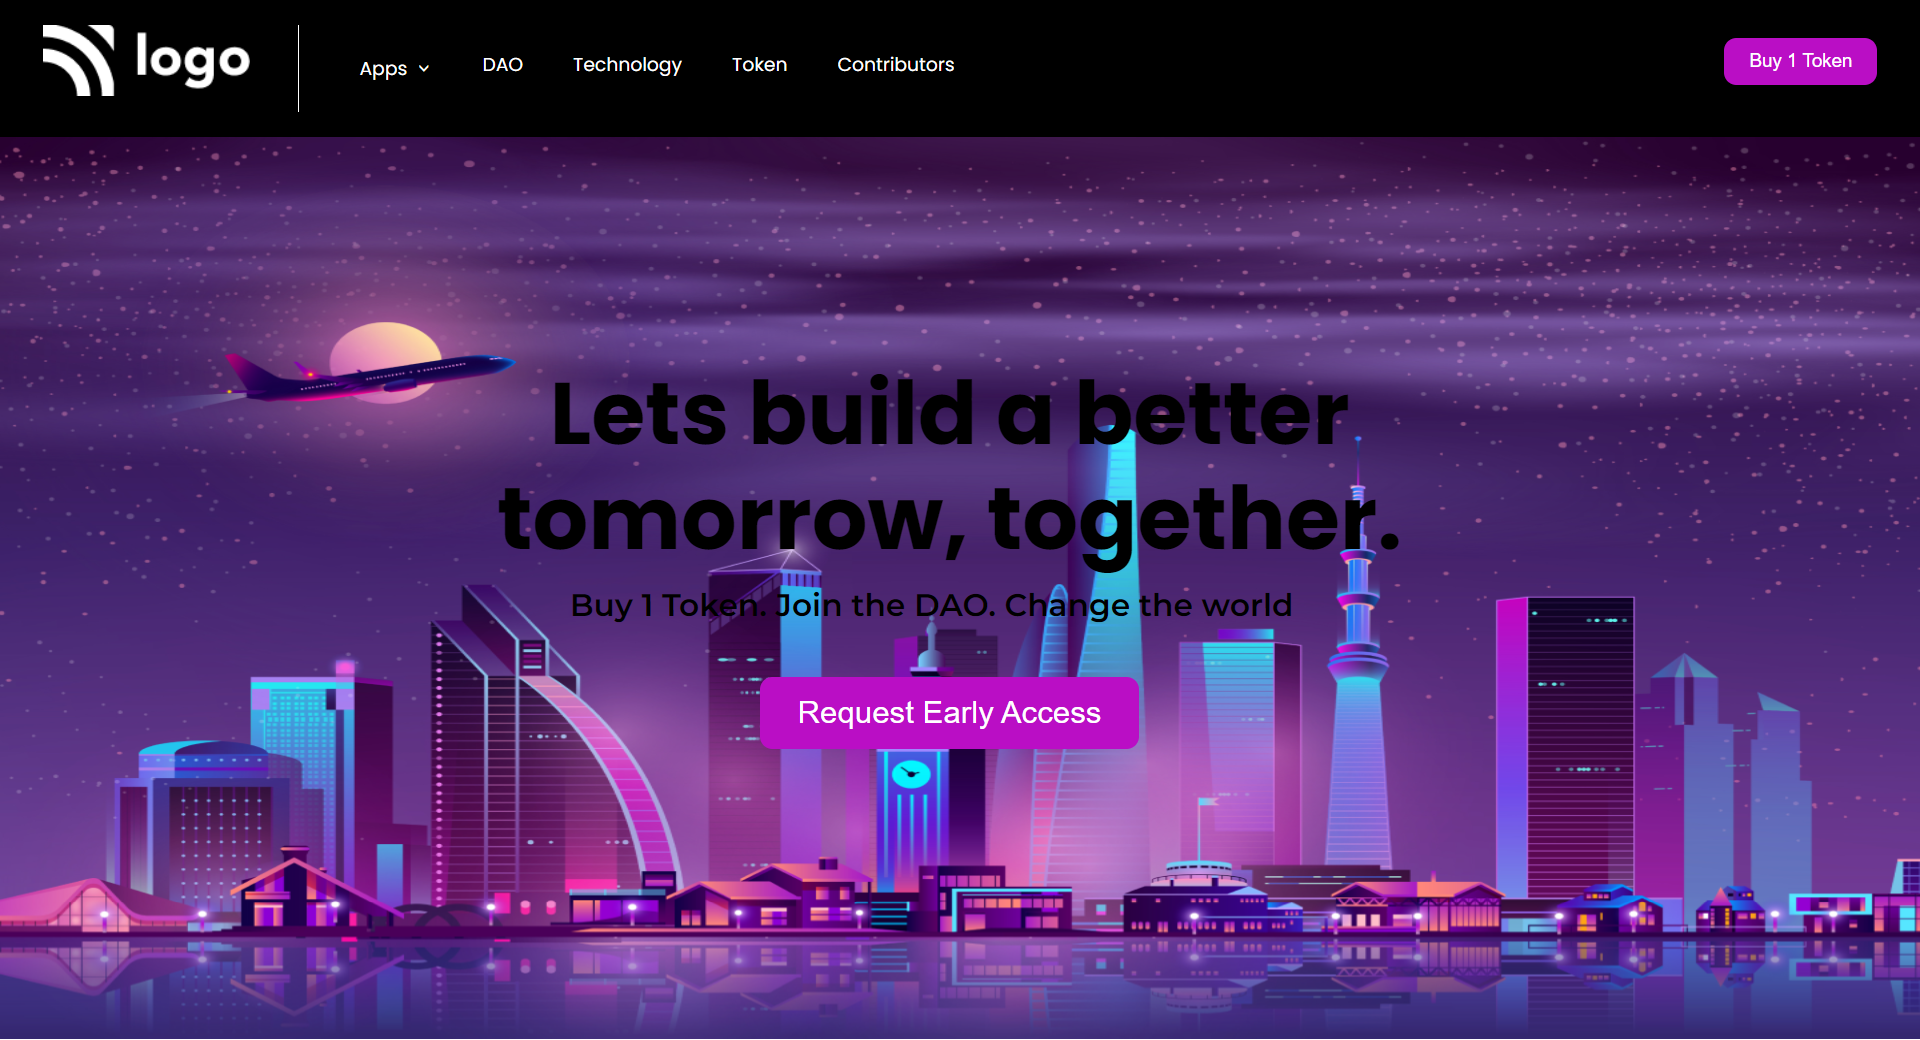
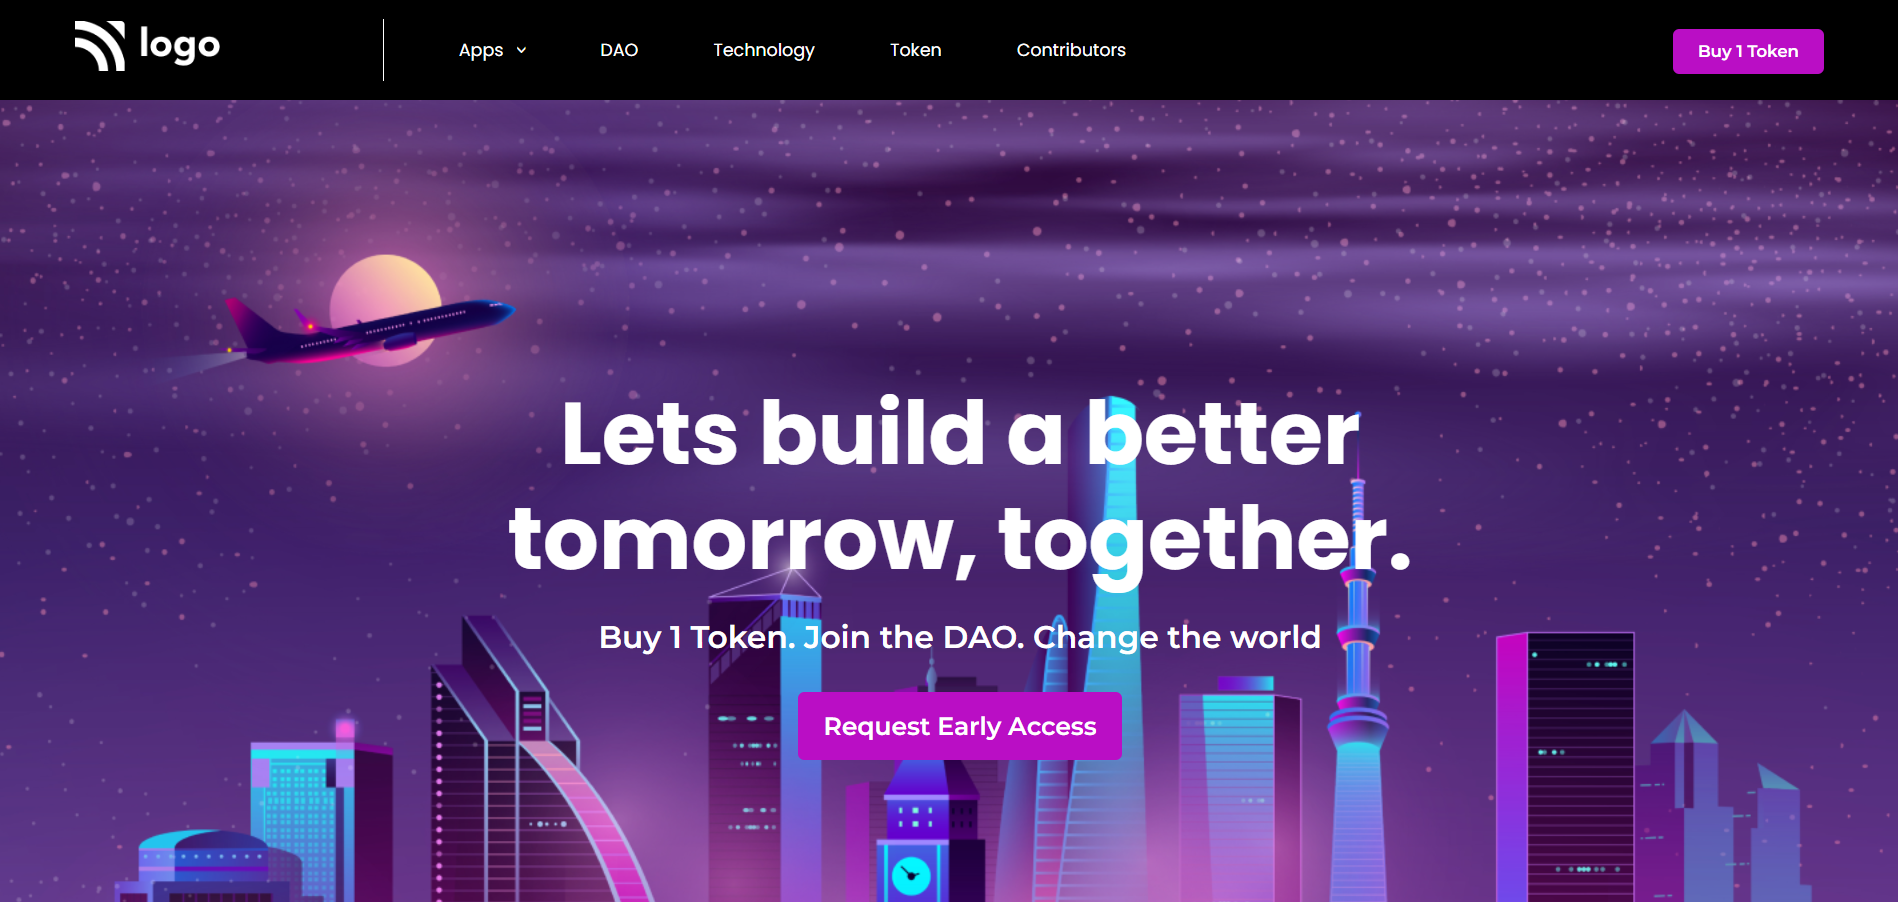
changes css

diff --git a/index.html b/index.html
@@ -1,5 +1,6 @@
 <!DOCTYPE html>
 <html lang="en">
+
   <head>
     <meta charset="UTF-8" />
     <meta http-equiv="X-UA-Compatible" content="IE=edge" />
@@ -7,24 +8,20 @@
     <link rel="stylesheet" href="style.css" />
     <link rel="preconnect" href="https://fonts.googleapis.com" />
     <link rel="preconnect" href="https://fonts.gstatic.com" crossorigin />
-    <link
-      href="https://fonts.googleapis.com/css2?family=Poppins:wght@200;300;400;500;600;700;800&display=swap"
-      rel="stylesheet"
-    />
+    <link href="https://fonts.googleapis.com/css2?family=Poppins:wght@200;300;400;500;600;700;800&display=swap"
+      rel="stylesheet" />
     <link rel="preconnect" href="https://fonts.googleapis.com" />
     <link rel="preconnect" href="https://fonts.gstatic.com" crossorigin />
-    <link
-      href="https://fonts.googleapis.com/css2?family=Montserrat:wght@600;700;800&display=swap"
-      rel="stylesheet"
-    />
+    <link href="https://fonts.googleapis.com/css2?family=Montserrat:wght@600;700;800&display=swap" rel="stylesheet" />
 
     <title>Project-5</title>
   </head>
+
   <body>
     <div class="container">
 
       <!-- Navbar Section -->
-      
+
       <section aria-label="navbar">
         <nav class="navbar">
           <div>
@@ -58,4 +55,5 @@
       </section>
     </div>
   </body>
+
 </html>

diff --git a/style.css b/style.css
@@ -9,6 +9,7 @@ body {
   background-image: url("assets/bg.png");
   background-size: cover;
   overflow-y: hidden;
+  position: relative;
 }
 button {
   cursor: pointer;
@@ -114,20 +115,6 @@ button {
     margin-top: 25rem;
   }
 }
-@media screen and (max-width: 1024px) {
-  .navbar {
-    padding: 15px 30px;
-  }
-  .line {
-    padding: 0 10px;
-  }
-  .hero-heading {
-    font-size: 55px;
-  }
-  .button-large {
-    margin-top: 30rem;
-  }
-}
 @media screen and (max-width: 768px) {
   .list {
     display: none;
@@ -159,6 +146,6 @@ button {
   .button-large {
     margin-top: 25rem;
     padding: 5px;
-    border-radius: 10px;
+    border-radius: 5px;
   }
 }
